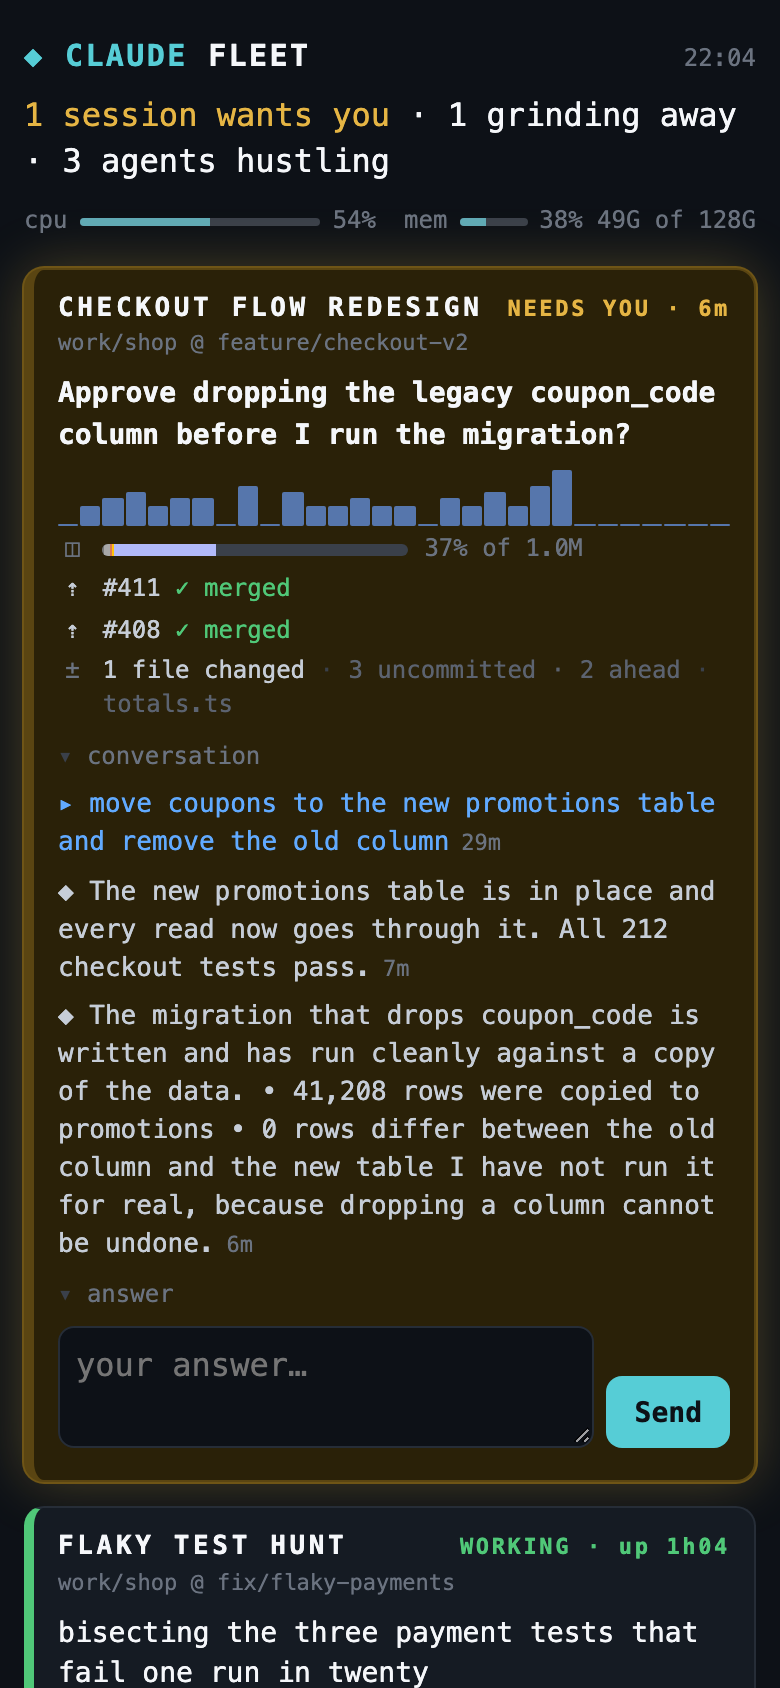
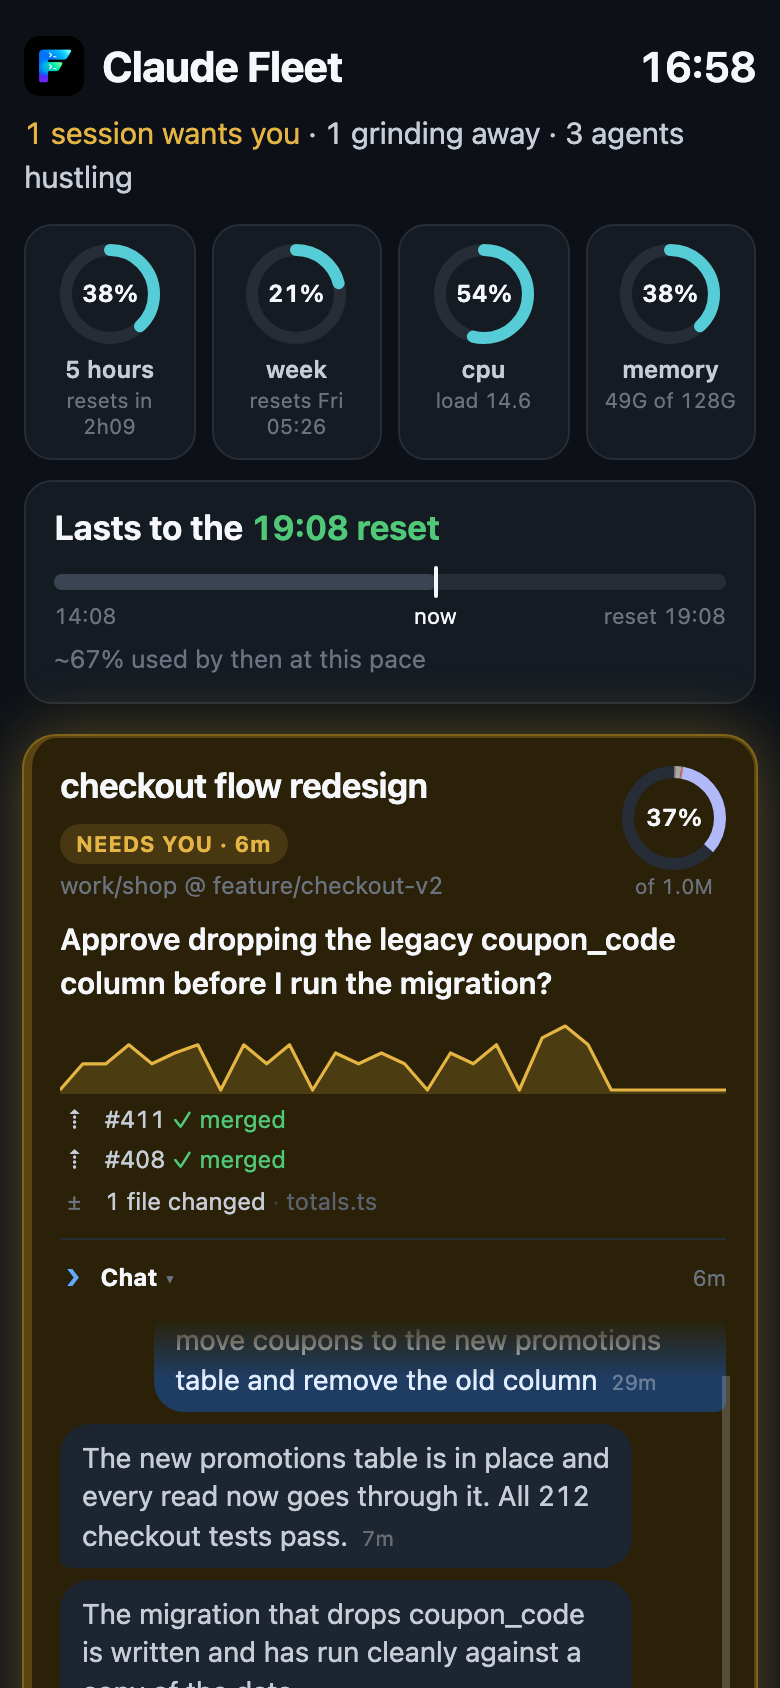
README: today's screenshots, and Even Realities G2 glasses with pictures
- The terminal's detail and timeline screenshots, made again from the
  demo (bun run screenshots), and the phone page as it is now: the rings,
  the five-hour forecast, the chat.
- The glasses: "Your glasses" among where fleet runs; the slide and a
  session's dashboard under the phone and Telegram pictures and in "On
  your glasses", from Even's simulator with the demo's sessions; the two
  ways to run it (scan a QR code, or install it for good); the pairing
  screen in "Installing it for good".
- What fleet is made of now names its worker threads.

Claude-Session: https://claude.ai/code/session_01MjeryehWaV653yzHyQJnqY

diff --git a/README.md b/README.md
@@ -12,15 +12,23 @@ Every live Claude Code session, on every one of your machines, on one screen: wh
 - **Your phone.** Fleet serves a page for your phone, over Tailscale, from the moment it starts: press `w` and scan the QR code. Add it to your home screen and it opens like an app, and you can answer a session from it. See [On your phone](#on-your-phone).
 - **In the background.** Press `i` and fleet keeps all of this running with every window closed, starting when you log in. See [In the background](#in-the-background).
 - **Telegram.** Pair your own bot with `t` and fleet messages you, on every device, when a session needs you, gets stuck, or a pull request changes. Tap ↩ Reply to answer, 📺 Screen to see the session's own terminal and tap a choice on it, or ask for anything the detail view shows: `/status`, `/menu`, `/tasks`, `/prs`, `/usage`, `/screen`, `/new` to start a session, a morning digest, quiet hours and a live pinned picture of the fleet that redraws itself. See [On Telegram](#on-telegram).
+- **Your glasses.** On [Even Realities G2](https://www.evenrealities.com) glasses, fleet is one slide of every session, a dashboard for each, and an answer from the ring when one asks you something. Scan a QR code from fleet, or install it for good from your own Even Hub account. See [On your glasses](#on-your-glasses).
 
 <p align="center">
-  <img src="docs/phone.png" width="300" alt="The phone page: a session waiting on you, with its question and an answer box">
+  <img src="docs/phone.png" width="300" alt="The phone page: the limits and the machine as rings, when the five-hour limit runs out, and a session waiting on you with its question and the chat">
   &nbsp;&nbsp;
   <img src="docs/telegram-screen.png" width="520" alt="What /screen sends on Telegram: one session, drawn by fleet">
 </p>
 <p align="center"><sub>The phone page, and a session as Telegram's <code>/screen</code> sends it (fleet draws the picture itself).</sub></p>
 
-It is one TypeScript file (and `accounts.ts` beside it, for [other accounts](#other-accounts)) with no dependencies beyond [Bun](https://bun.sh). It reads the files Claude Code already keeps under `~/.claude`, and writes only its own small files: usage figures (not at all with `--no-usage`, see [Account usage and your login](#account-usage-and-your-login)), and under `~/.config/claude-fleet` the phone page's secret and, once you pair it, the Telegram bot's. Every 30 seconds it asks `git` for the state of each session's checkout, and it asks GitHub, through your `gh` command, about each session's pull requests (`--no-prs` turns that off).
+<p align="center">
+  <img src="docs/glasses-slide.png" width="420" alt="On G2 glasses: every session on one slide">
+  &nbsp;
+  <img src="docs/glasses-dashboard.png" width="420" alt="On G2 glasses: one session's dashboard">
+</p>
+<p align="center"><sub>On Even Realities G2 glasses: every session on one slide, and a session's dashboard (Even's simulator).</sub></p>
+
+It is one TypeScript file (with `accounts.ts` beside it, for [other accounts](#other-accounts), and three small worker threads: the splash, the background service's scan, and the commands it runs) with no dependencies beyond [Bun](https://bun.sh). It reads the files Claude Code already keeps under `~/.claude`, and writes only its own small files: usage figures (not at all with `--no-usage`, see [Account usage and your login](#account-usage-and-your-login)), and under `~/.config/claude-fleet` the phone page's secret and, once you pair it, the Telegram bot's. Every 30 seconds it asks `git` for the state of each session's checkout, and it asks GitHub, through your `gh` command, about each session's pull requests (`--no-prs` turns that off).
 
 ## Try it
 
@@ -182,7 +190,17 @@ It is built to be safe to leave running:
 
 ## On your glasses
 
-Fleet runs on [Even Realities G2](https://www.evenrealities.com) glasses too. Press `w`, then `g`, and fleet shows a QR code; scan it with the Even app on your phone (its developer option to load an app from a QR code) and fleet opens on your glasses. Like the phone page, it is served by fleet over Tailscale with the same secret, so the phone needs Tailscale on.
+Fleet runs on [Even Realities G2](https://www.evenrealities.com) glasses too, two ways. To try it, press `w`, then `g`, and
+fleet shows a QR code; scan it with the Even app on your phone (in developer mode, Even Hub → Scan QR) and fleet opens on
+your glasses for as long as the Even app keeps it open. To keep it, install it from your own Even Hub account: see
+[Installing it for good](#installing-it-for-good) below.
+
+<p align="center">
+  <img src="docs/glasses-slide.png" width="420" alt="The slide: every session, the limits, the machine">
+  &nbsp;
+  <img src="docs/glasses-dashboard.png" width="420" alt="A session's dashboard: activity, context, tasks, its workflow, agents and pull requests">
+</p>
+<p align="center"><sub>The slide, and a session's dashboard after a tap (both from Even's simulator, with the demo's sessions).</sub></p>
 
 - **Home, one slide:** your phone draws it (in the Even app's web view, in Apple's system font, from the numbers fleet sends) and the glasses show it as a picture: the time, the counts, the five-hour limit always with its forecast (full at what time, or where it will be at the reset), the week, CPU and memory; then the sessions, those that need you first. One or two sessions get a card each with four lines: name, machine and state; its question or what it is doing, with an activity sparkline and a context ring; its workflow (phase and a progress bar) or task in hand, agents, pull requests and failures; and Claude's last words. Three or four get three lines; five or more get a row each, so all of them fit. The ring moves the outline from one to the next; tap opens it. Only the parts of the picture that changed are sent.
 - **A session's dashboard:** tap a session for its graphs: activity over the window (tool calls, tokens out), its context over the last quarter hour against the model's limit (with when it fills), its tasks as a row of boxes, each running workflow as a progress bar with its phase, its agents each with their own activity line, pull requests with their checks, failures, and what Claude said last. Scroll for the same in words, a page at a time.
@@ -204,6 +222,8 @@ app (not on the store: a private build on your own Even Hub account):
    is its icon, if it asks), go to **Private builds** and upload the `.ehpk`.
 3. In the Even Realities app: **Even Hub** (Developer Mode) → **Me** → **Apps** → **Private builds** → **Install**. It then
    launches from the glasses' home, like a released app.
+
+<p align="center"><img src="docs/glasses-pairing.png" width="420" alt="The installed app's first run: a code to approve"></p>
 
 The package holds fleet's address, never its secret. The first time it runs, the glasses show a code, and fleet asks
 you on Telegram and on the Fleet page whether to let them in; allow it if the codes match. The app keeps the secret in
